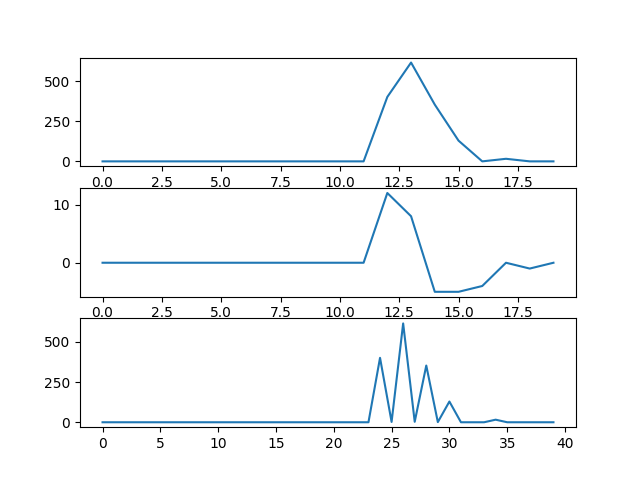
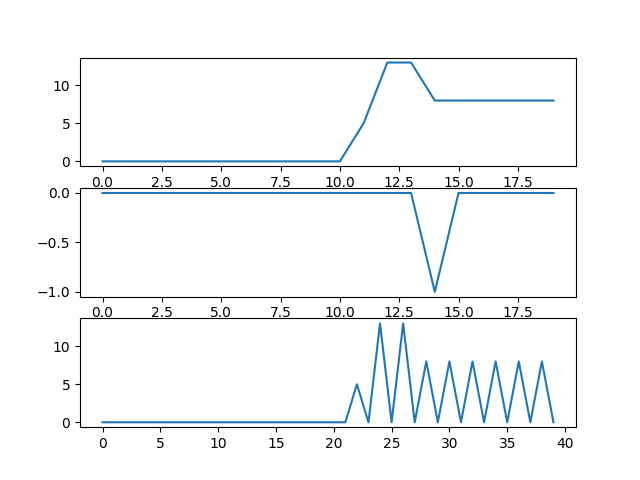
modeling codes

diff --git a/python_codes/charon_analysis.py b/python_codes/charon_analysis.py
@@ -12,6 +12,19 @@ import re
 import time
 import re
 
+exp_type = 'k3_identification' 
+
+warnings.filterwarnings('ignore')
+current_working_directory = os.path.dirname(os.path.abspath(__file__))
+experiment_dir = f'{current_working_directory}/experiment_data/{exp_type}/'
+
+OUTPUT_DIR = f'{current_working_directory}/experiment_data/RESULTS'
+if os.path.exists(OUTPUT_DIR):
+    print("Directories exist")
+else:
+    os.makedirs(OUTPUT_DIR)
+    print("Directory '%s' created")
+
 def find_all_dots_and_dashes(input_string):
     # Find all positions of '.' and '-' in the input string
     matches = re.finditer(r'[.-]', input_string)
@@ -129,14 +142,14 @@ def execute_experiment(experiment_dir):
         
 
         # Process the frames at these time points
-        post_processed = [sensor_data[f_file]['derived'][ele].iloc[i]['value'] - sensor_data[f_file]['derived'][ele].iloc[i-1]['value'] for i in range(len(sensor_data[f_file]['derived'][ele].time[1:]))] # change it to closest indices for a fair comparison
+        post_processed = [0] + [(sensor_data[f_file]['derived'][ele].iloc[i]['value'] - sensor_data[f_file]['derived'][ele].iloc[i-1]['value'])/(sensor_data[f_file]['derived'][ele].iloc[i]['time']-sensor_data[f_file]['derived'][ele].iloc[i-1]['time']) for i in range(1, len(sensor_data[f_file]['derived'][ele].time))]  # Initialize with zero
         cum_data = sensor_data[f_file]['derived'][ele]['value']
         # Determine subplot indices
         
         label_name = ele
         row = ax_frame_index // 2
         col = ax_frame_index % 2
-        axs_frame[row, col].plot(sensor_data[f_file]['derived'][ele].elapsed_time[1:], post_processed, label=ele)
+        axs_frame[row, col].plot(sensor_data[f_file]['derived'][ele].elapsed_time, post_processed, label=ele)
         axs_frame[row, col].set_xlabel('Elapsed Time [s]')
         axs_frame[row, col].set_ylabel(f'{label_name}')
         # axs_frame[row, col].set_title(identifier)  # Set title as identifier
@@ -170,27 +183,17 @@ def execute_experiment(experiment_dir):
     # Set titles for the figures
     fig_frame.suptitle(f'Progress_fr_{identifier}')
     fig_k3.suptitle(f'Resource Allocation_fr_{identifier}')
+    fig_frame.savefig(os.path.join(OUTPUT_DIR, f'fig_frame_{identifier}.png'))
+    fig_k3.savefig(os.path.join(OUTPUT_DIR, f'fig_k3_{identifier}.png'))
     return sensor_data, fig_frame, fig_k3, identifier
 
 
 if __name__ == '__main__':
-    exp_type = 'k3_identification' 
-
-    warnings.filterwarnings('ignore')
-    current_working_directory = os.path.dirname(os.path.abspath(__file__))
-    experiment_dir = f'{current_working_directory}/experiment_data/{exp_type}/'
-
-    OUTPUT_DIR = f'{current_working_directory}/experiment_data/RESULTS'
-    if os.path.exists(OUTPUT_DIR):
-        print("Directories exist")
-    else:
-        os.makedirs(OUTPUT_DIR)
-        print("Directory '%s' created") 
+  
 
     os.chdir(experiment_dir)
     sensor_data, fig_frame, fig_k3, identifier = execute_experiment(current_working_directory)
 
-    fig_frame.savefig(os.path.join(OUTPUT_DIR, f'fig_frame_{identifier}.png'))
-    fig_k3.savefig(os.path.join(OUTPUT_DIR, f'fig_k3_{identifier}.png'))
+
 
     # plt.show()  # Optionally display the figures

diff --git a/python_codes/modeling.py b/python_codes/modeling.py
@@ -47,7 +47,7 @@ for fold in folders:
             for k_key, k_avg in k_averages:
                 axs[y_index_map[f_key], x_index_map[k_key]-4].scatter(k_avg.iloc[0], f_avg, label=f_key, color='k')  # Use mapped indices
                 axs[y_index_map[f_key], x_index_map[k_key]-4].set_xlabel(k_key[k_key.find("consumer")+9:k_key.find("data")])  # Label x-axis
-                axs[y_index_map[f_key], x_index_map[k_key]-4].set_ylabel(f_key[11:]) 
+                axs[y_index_map[f_key], x_index_map[k_key]-4].set_ylabel(f_key) 
                 # axs[y_index_map[f_key], x_index_map[k_key]].legend()  # Show legend for the plot
         
         
